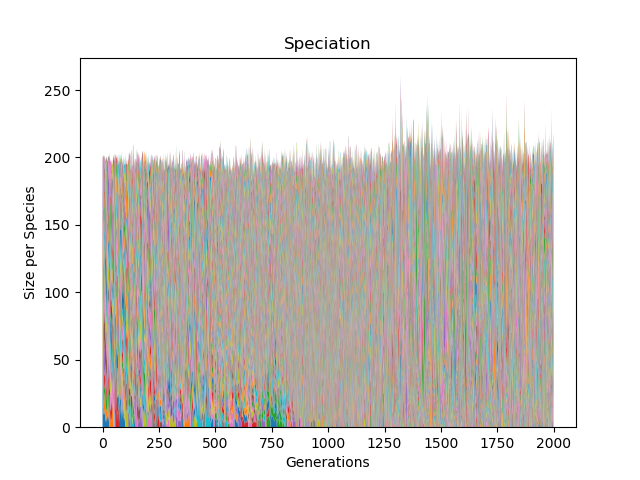
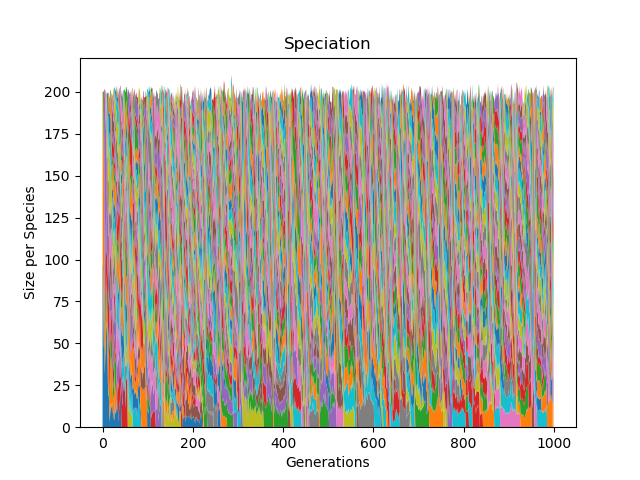
add new results

diff --git a/lynx/enn_lynx.py b/lynx/enn_lynx.py
@@ -44,6 +44,7 @@ def eval_genome(genome, config):
     last few lines in the file), otherwise you'll have made a fork bomb
     instead of a neuroevolution demo. :)
     """
+    if_no_connect = True
 
     net = neat.nn.FeedForwardNetwork.create(genome, config)
     error = 0.0
@@ -51,7 +52,15 @@ def eval_genome(genome, config):
         output = net.activate(xi)
         error -= (output[0] - xo[0]) ** 2
         # error -= np.abs(output[0] - xo[0])
-    mse = error/L
+        if float(output[0]) != 0:
+            if_no_connect = False
+    
+    if if_no_connect:
+        mse = -1  
+    # there is no connection at all
+    else:
+        mse = error/L
+
     # mad = error/L
     return mse
 
@@ -76,7 +85,7 @@ def run(config_file):
 
     # Run for up to 300 generations.
     pe = neat.ParallelEvaluator(multiprocessing.cpu_count(), eval_genome)
-    winner = p.run(pe.evaluate, 2000)
+    winner = p.run(pe.evaluate, 1000)
 
     # Display the winning genome.
     print("\nBest genome:\n{!s}".format(winner))

diff --git a/lynx/enn10times_lynx.py b/lynx/enn10times_lynx.py
@@ -44,6 +44,7 @@ def eval_genome(genome, config):
     last few lines in the file), otherwise you'll have made a fork bomb
     instead of a neuroevolution demo. :)
     """
+    if_no_connect = True
 
     net = neat.nn.FeedForwardNetwork.create(genome, config)
     error = 0.0
@@ -51,7 +52,14 @@ def eval_genome(genome, config):
         output = net.activate(xi)
         error -= (output[0] - xo[0]) ** 2
         # error -= np.abs(output[0] - xo[0])
-    mse = error/L
+        if float(output[0]) != 0:
+            if_no_connect = False
+    # there is no connection at all, return a very low value
+    if if_no_connect:
+        mse = -1  
+    else:
+        mse = error/L
+
     # mad = error/L
     return mse
 
